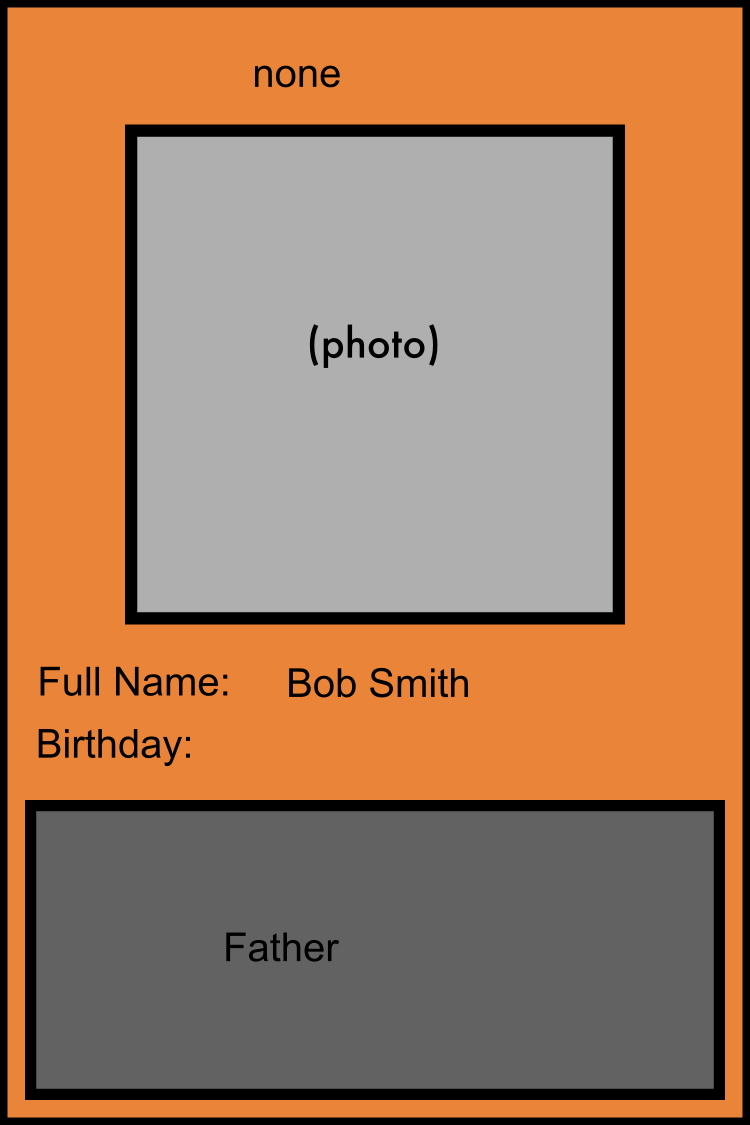
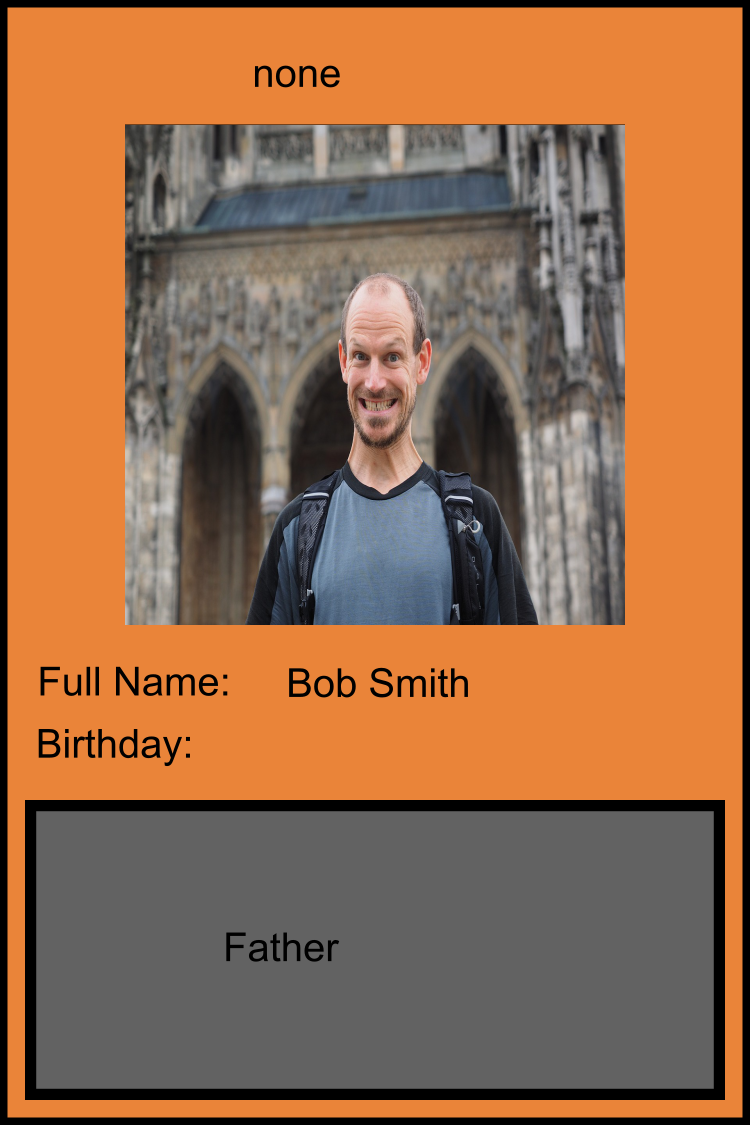
Change profile imgs. Add default img.

Changed region(s): [[0.1533, 0.0933, 0.8587, 0.56]]

diff --git a/js/converter.js b/js/converter.js
@@ -92,6 +92,8 @@ function rowToSvg(rowStr) {
 	rowData = rowData.replace('$FULL_NAME$', rowArr[0]);
 	rowData = rowData.replace('$NICKNAME$', rowArr[1]);
 	rowData = rowData.replace('$RELATIONSHIP$', rowArr[2]);
+	rowData = rowData.replace('default_person.png', rowArr[4]);
+	rowData = rowData.replace('default_person.png', rowArr[4]);
 
 	var svgPath = svgOut + svgFileName;
 	if (fileExists(svgPath)) {
